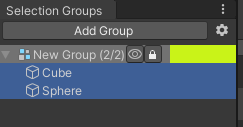
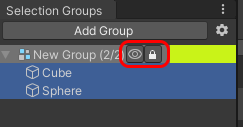
doc: technical editing of English docs (#31)
* copy the overview part of the contents of index.md to readme
* add a link to Getting Started in readme
* technical edits for index.md
* technical edits for GoQL.md
* Annotate SelectionGroupTools.png
* Annotate SelectionGroupMembers.png

Changed region(s): [[0.4897, 0.3071, 0.7202, 0.5433]]

diff --git a/Documentation~/goql.md b/Documentation~/goql.md
@@ -1,101 +1,120 @@
+# GoQL User Documentation
 
-GoQL User Documentation
-=============================
 
-# Introduction 
-GoQL is an abbreviation for "GameObject Query Language". It is used to construct sets of GameObjects from the scene hierarchy. The API takes a single query string as a parameter, and returns a set of GameObjects that match that query.
+## Introduction 
 
-# Creating Queries
-It is possible to construct and test queries by using the Window -> General -> GoQL window. This allows you to type a query, and immediately see the objects that are selected by the query.
+GoQL is an abbreviation for "GameObject Query Language". 
+It is used to construct sets of **GameObjects** from the scene hierarchy.   
+The API takes a single query string as a parameter, 
+and returns a set of **GameObjects** that match that query.
 
-# Structure
-A GoQL query is built using name filters, indexers, discriminators and descenders. This sounds complicated, but uses a syntax which is similar to directory paths and filenames.
+## Structure
 
-## Name Filters
-The name of a GameObject can be specified directly. Eg:
+A GoQL query is built using [name filters](#name-filters), [indexers](#indexers), 
+[discriminators](#discriminators) and [descenders](#descenders). 
+This sounds complicated, but it uses a syntax which is similar to directory paths and filenames.
+
+### Name Filters
+
+The name of a **GameObject** can be specified directly. E.g.:
     
     Head
 
-will match all GameObects that are named "Head". A name filter can also use wildcards at the beginning and end of the namem, Eg:
+will match all **GameObjects** that are named "Head".   
+A name filter can also use wildcards at the beginning and end of the name, E.g.:
 
     *Head
 
-will match all GameObjects that have a name ending with "Head" and
+will match all **GameObjects** that have a name ending with "Head" and
 
     Head*
 
-will match all GammeObjects that have a name beginning with "Head", while
+will match all **GameObjects** that have a name beginning with "Head", while
 
     *Head*
 
-will match all GameObjects that contain the string "Head" anywhere in their name.
+will match all **GameObjects** that contain the string "Head" anywhere in their name.
 
-It is important to note that a Name Filter will match all GameObjects in the current set. Initially, the current set is global, and will contain all objects in the hierarchy. The current set can be changed using a descender.
+It is important to note that a Name Filter will match all GameObjects in the current set.  
+Initially, the current set is global, and will contain all objects in the hierarchy.   
+The current set can be changed using a descender.
 
-## Descenders
+### Descenders
+
 A descender is a slash character.
 
     /
 
-When GoQL reads this symbol, it will narrow the search down into the children of the current set. If it is the first character of the GoQL string, it will match all root objects in the scene. 
+When GoQL reads this symbol, it will narrow the search down into the children of the current set.   
+If it is the first character of the GoQL string, it will match all root objects in the scene. 
 
 A double asterisk is a special descender, which collects all _ancestors_ of the current set.
 
     **
 
-This will collect every child of the current set, and the childs children, recursively until the end of hierarchy is reached.
+This will collect every child of the current set, and the child's children, recursively until the end of hierarchy is reached.
 
 When this symbol is read    
 
     /Head
 
-will match any GameObjects named "Head" that are in the root of the hierarchy. While:
+will match any **GameObjects** named "Head" that are in the root of the hierarchy, while
 
     Head/
 
-would match all immediate children of any GameObjects named "Head".
+would match all immediate children of any **GameObjects** named "Head".
 
-## Indexer
-An indexer will filter the current set using a numerical index which can specifiy individual indexes or a range of indexes. Eg:
+### Indexer
+
+An indexer will filter the current set using a numerical index which can specifiy individual indexes or a range of indexes. E.g.:
 
     Head/[0]
 
-Will match the first child of all GameObjects named "Head".
+will match the first child of all **GameObjects** named "Head".
 
     Head/[0,1,5]
 
-will match a number of children of all GameObjects named "Head", if they exist. Indexes can also be negative, Eg:
+will match a number of children of all **GameObjects** named "Head", if they exist.   
+Indexes can also be negative, Eg:
 
     Head/[-1]
 
-will match the last child of all GameObjects named "Head". An indexer can also be a range, rather than single values. Eg:
+will match the last child of all **GameObjects named** "Head".  
+An indexer can also be a range, rather than single values. E.g.:
 
     Head/[3:5]
 
-will match all children of objects named "Head" that have an index of 3 or 4. (The range in exclusive of the final range value).
+will match all children of objects named "Head" that have an index of 3 or 4.   
+The range is exclusive of the final range value.
 
-#Discriminators
-A discriminator is used to filter the current set by checking for the existing of components, a material or a shader. Discriminators are specified using angle brackets and an initial discrimination code, which can be 't' for components, 'm' for materials and 's' for shaders. Eg:
+# Discriminators
+
+A discriminator is used to filter the current set by checking for the existing of components, 
+a material or a shader.   
+Discriminators are specified using angle brackets and an initial discrimination code, 
+which can be 't' for components, 'm' for materials and 's' for shaders. E.g.:
 
     Head<t:Collider>
 
-will match all objects named "Head" which also have a Collider component. Using a different discriminator code, we can instead match objects that are using a specific material. Eg:
+will match all **GameObjects** named "Head" which also have a Collider component.   
+Using a different discriminator code, we can instead match objects that are using a specific material. 
+E.g.:
 
     Head<m:Glow>
 
-will match all objects that are named "Head" and have a material named "Glow", while:
+will match all **GameObjects** that are named "Head" and have a material named "Glow", while:
 
     Head<s:Standard> 
     
-will match all objects that are named "Head" and are using a shader named "Standard".
+will match all **GameObjects** that are named "Head" and are using a shader named "Standard".
 
-# Examples
+## Examples
 
 Select all root objects:
 
     /
 
-Select all objects who have a name beginning with "Quad":
+Select all **GameObjects** who have a name beginning with "Quad":
 
     Quad*
 
@@ -104,24 +123,25 @@ Select second audio source component in children of all objects who have a name 
     Quad*/<t:AudioSource>[1]
 
 
-Select all gameobjects that have a Transform and a AudioSource component: 
+Select all **GameObjects** that have a Transform and a AudioSource component: 
 
     <t:Transform, t:AudioSource>
 
 
-Select the first 3 children of all objects that are a child of a renderer component and have "Audio" in their name: 
+Select the first 3 children of all **GameObjects** that are a child of a renderer component and have "Audio" in their name: 
 
     <t:Renderer>/*Audio*[0:3]
 
 
-From each object named "Cube", select children that have a name starting with "Quad", then select the last grandchild that has an AudioComponent.
+From each **GameObject** named "Cube", select children that have a name starting with "Quad", 
+then select the last grandchild that has an AudioComponent.
 
     Cube/Quad/<t:AudioSource>[-1]
 
-Select all gamobjects that use the material "Skin":
+Select all **GameObjects** that use the material "Skin":
 
     <m:Skin>
 
-Select all ancestors of the root Environment gameobject that have a MeshRenderer.
+Select all ancestors of the root Environment **GameObject** that have a MeshRenderer.
 
     /Environment/**<t:MeshRenderer>

diff --git a/Documentation~/index.md b/Documentation~/index.md
@@ -1,44 +1,58 @@
-Selection Groups User Documentation
-===================================
-
-# Overview
-
-Selection groups allow a number of Unity Objects to be categorized under a common name.
-The selection group data is initially stored in a scene which allows the data 
-to be used by scripts.
-
-As an alternative, the group data can instead be stored outside of the scene.
-This allows a decoupling between the groups and the scenes, with a tradeoff 
-that the group data cannot be used by scripts.
+# Selection Groups User Documentation
 
 
-# Getting Started
+## Overview
 
-1. Open the selection group window via Window -> General -> Selection Groups.  
-   A new window will open, it makes sense to dock this window next to the Hierarchy window.   
+Selection Groups provides a more convenient workflow in Unity by 
+allowing to group a number of **GameObjects** under a common name.  
+This way, we can do operations on these groups, 
+instead of individual **GameObjects**.
+
+## Getting Started
+
+1. Open the Selection Groups window via Window > General > Selection Groups.  
+   We recommend to dock this window next to the Hierarchy window.   
+
    ![](images/SelectionGroupsWindow.png)
+
 1. Click “Add Group” in the Selection Groups window, and a new item will appear inside the window.   
 1. Drag some **GameObjects** from the hierarchy, or assets from the Project window. 
+   
    ![](images/SelectionGroupMembers.png)
-1. Double click the group name, and a configuration dialog box will appear.   
+
+1. Double click the group name, and a configuration dialog box will appear.
+
    ![](images/SelectionGroupConfiguration.png)
-   1. You may change the group name and color, GoQL query or enable and disable Group Tools.
-   1. The place for storing the data may be configured as well.
-   2. The GoQL: Game Object Query Language field allows you to specify a query 
-      which will automatically select **GameObjects** from the hierarchy that match the query. 
+
+   The dialog box contains the following properties:
+   1. Group name 
+   1. Group color
+   1. [Data Location](#data-location)
+   1. GameObject Query  
+      Specifies a query which will automatically include **GameObjects** from the hierarchy
+      that match the query into the group.  
       For example, `/Enemy*` will select all GameObjects that are in the root of the hierarchy 
-      that have a name starting with `Enemy`. See the [GoQL](goql.md) documentation for more information.
-1. The Group Tools checkboxes enable toolbar items in the main Selection Groups window for each group. 
-   These tools allow you to show and hide an entire group with a single click, 
-   or enable and disable editing of an entire group with a single click.   
-   ![](images/SelectionGroupTools.png)
+      that have names starting with `Enemy`.  
+      See the [GoQL](goql.md) documentation for more information.     
+   1. Enabled Toolbar Buttons  
+      Enables/disables the following toolbar items in the main Selection Groups window for the group.   
+      1. Eye: show or hide all the **GameObjects** in the group. 
+      1. Lock: enable or disable the editing of all the **GameObjects** in the group.  
 
+      ![](images/SelectionGroupTools.png)
 
-# How does storing the data outside a scene work ?
+## Data Location
 
-Unity has an API (GlobalObjectId) for creating a global identifier for objects in scenes. 
-The Selection Group stores references to objects using this API, 
-which is saved in an asset external to the project. 
-This allows the same group to exist across the project, 
-containing game assets and **GameObjects** from multiple scenes. 
-When a scene is loaded, the Selection Group window will only list **GameObjects** that currently exist in that scene.
+The data of each group can be stored in one of these two locations:
+1. Scene: in a scene (default).  
+   This allows scripts to access the data.
+2. Editor: in an asset file outside scenes.  
+   This allows a decoupling between the groups and the scenes, with a tradeoff 
+   that the group data cannot be used by scripts.  
+   The same group can be shared by multiple scenes, 
+   but the Selection Group window will only show grouped **GameObjects** that exist in the opened scene.
+
+> When the group data is stored in the Editor, the group saves references to **GameObjects** using 
+> [GlobalObjectId API](https://docs.unity3d.com/ScriptReference/GlobalObjectId.html),
+> which provides project-global object identifiers, into an asset file.
+

diff --git a/README.md b/README.md
@@ -1,4 +1,4 @@
-# SelectionGroups
+# Selection Groups
 
 [![](https://badge-proxy.cds.internal.unity3d.com/fb136fc0-1940-40a8-9057-83638eb23bcd)](https://badges.cds.internal.unity3d.com/packages/com.unity.selection-groups/build-info?branch=dev&testWorkflow=package-isolation)
 [![](https://badge-proxy.cds.internal.unity3d.com/0ff3d77d-0f47-4e16-857c-ed03a771eac9)](https://badges.cds.internal.unity3d.com/packages/com.unity.selection-groups/dependencies-info?branch=dev&testWorkflow=updated-dependencies)
@@ -8,16 +8,21 @@
 ![ReleaseBadge](https://badge-proxy.cds.internal.unity3d.com/239fe9e2-44d2-4379-81a6-d94bdcc74ffe)
 ![ReleaseBadge](https://badge-proxy.cds.internal.unity3d.com/d907b255-39d5-4c3b-9b05-a319082806dd)
 
-SelectionGroups allow sets of objects to be grouped together, independent of the structure in the Hierarchy Window.
+## Overview
 
-Open the SelectionGroup window via Window->General->Selection Groups.
+Selection Groups provides a more convenient workflow in Unity by 
+allowing to group a number of **GameObjects** under a common name.  
+This way, we can do operations on these groups, 
+instead of individual **GameObjects**.
 
-Press the 'Add Group' button to add a group, then drag gameobjects from the Hierarchy Window to the group.
+## Supported Unity Versions 
 
-You can remove members from the group by right clicking on them and choosing remove.
+Unity 2019.4 or higher.
 
-You can right click on the group to open a context menu. This menu provides controls for removing, duplicating and configuring the group.
+## Getting Started
 
-# Group Configuration
-When selecting the Configure Group option from the context menu, a configuration window will open. You can change the group name, the group color and the selection query using this window.
+[Getting Started](Documentation~/index.md#getting-started)
 
+
+## License
+- [License](LICENSE.md)
